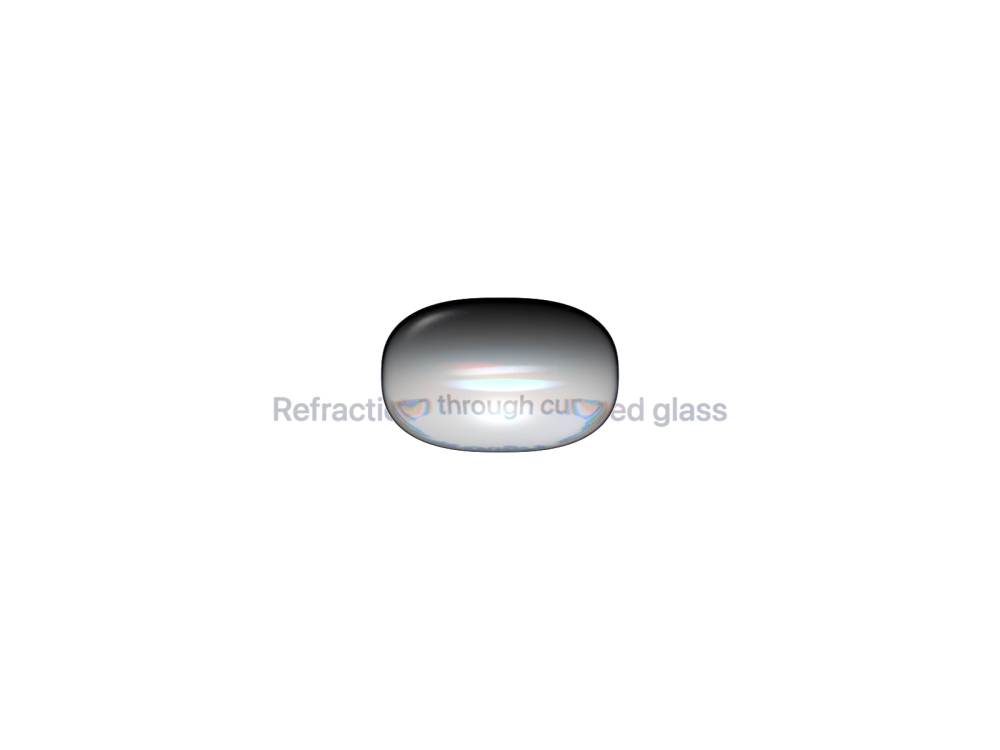
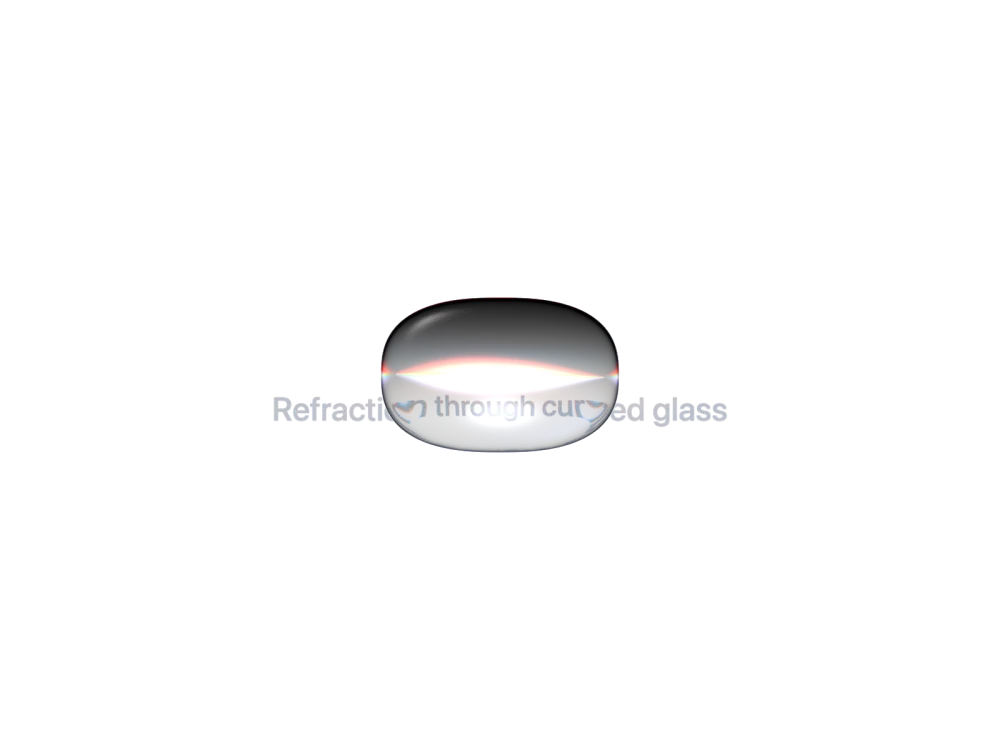
fix: orbs

Changed region(s): [[0.372, 0.46, 0.62, 0.6133]]

diff --git a/src/features/experiments/components/prism-orb-demo.tsx b/src/features/experiments/components/prism-orb-demo.tsx
@@ -99,15 +99,21 @@ const vec2 BODY = vec2(${BODY_X.toFixed(4)}, ${BODY_Y.toFixed(4)});
 // the refracted rays have crossed the axis and the word comes back upside down. That
 // inverted image is real and it is wanted — but at the rim, as the FAR sample below,
 // not smeared across the clear middle where the upright one belongs.
-const float TEXT_DEPTH_MID = 0.55;
-const float TEXT_DEPTH_RIM = 1.70;
+const float TEXT_DEPTH_MID = 0.42;
+const float TEXT_DEPTH_RIM = 1.05;
 // The upside-down copy that wraps the lower rim is the same page followed all the way to
 // the far surface. A real lens shows both, and the inverted one is what reads as glass.
-const float TEXT_FAR_GAIN = 1.20;
-// Wavelengths the page is sampled at. Far fewer than the ribbons take: a fringe on a
-// legible edge reads at a fraction of the sampling a smeared emitter needs before it
-// stops looking like separate stripes.
-const int TEXT_TAPS = 9;
+const float TEXT_FAR_GAIN = 0.20;
+// Wavelengths the page is sampled at, and how far apart they are taken.
+//
+// The dispersion the CORD gets is deliberately far past what real glass does — that is
+// stated at the top of this file. Handing the page the same exaggeration is what made the
+// text look smeared rather than refracted: every letter arrived as nine coloured copies of
+// itself a visible distance apart. Real glass fringes an edge by a hair, and a hair is
+// what reads as clean. The page gets its own, much tighter spread.
+const int TEXT_TAPS = 7;
+const float TEXT_IOR_LO = 1.50;
+const float TEXT_IOR_HI = 1.55;
 // The band runs on its own multiple of the clock. Sharing one rate with the light drift
 // read as a single slow system; split, the ribbon can move at the speed it wants while
 // the reflections stay calm enough not to strobe.
@@ -302,7 +308,7 @@ vec3 centres(float x, float t, float lightY) {
   float drift = sin(x * 0.62 + t * 0.23) * 0.058 + sin(x * 1.40 - t * 0.17) * 0.022;
   // Small enough that the three read as one cord rather than three threads sharing a
   // frame. It only has to exceed the strand width for the crossings to be legible.
-  return b + drift + sin(vec3(ph, ph + TWIST, ph + 2.0 * TWIST)) * 0.125;
+  return b + drift + sin(vec3(ph, ph + TWIST, ph + 2.0 * TWIST)) * 0.072;
 }
 
 // Where each strand is in the twist, -1 at the back and +1 at the front. This is the
@@ -336,29 +342,22 @@ float ribbons(float y, vec3 cy, float w, vec3 facing) {
 // Everything about a ribbon set that depends only on x, so it too leaves the loop.
 // x: half-width after taper, y: falloff along the length.
 vec2 profile(float x) {
-  // The cord is a compact bundle in the middle of the glass, not a band drawn across it.
-  // Both lengths are keyed to a span well inside the body: the thickness taper closes the
-  // strands to a point at about two thirds of the half-width, and the falloff has them
-  // gone before that. That is what keeps colour off the sides, and what makes the bundle
-  // read as a rounded lens rather than a streak with tails running out to the rim.
-  return vec2(0.084 * pow(clamp(1.0 - pow(x / 0.62, 2.0), 0.0, 1.0), 0.55),
-              exp(-pow(abs(x) / 0.34, 2.4)));
+  // A wave: at its fullest through the middle of the glass and drawing thin toward both
+  // sides, rather than a bundle of constant thickness cut off at the ends. x here is the
+  // first component: how wide the winding is allowed to open, which is what sets the
+  // cord's depth at that point. The second is how much light is left along its length.
+  return vec2(1.0 * pow(clamp(1.0 - pow(x / 0.86, 2.0), 0.0, 1.0), 0.45),
+              exp(-pow(abs(x) / 0.52, 2.6)));
 }
 
-// Each strand's own place in the spectrum: a warm one, a cool one, and a pale one. This
-// is the part that stopped being derived. Dispersing a single white emitter gives a full
-// rainbow stacked top to bottom, and stacked is exactly what it looks like — every column
-// showing the whole spectrum in order, which reads as a gradient however finely it is
-// sampled. Distinct ribbons that cross one another cannot come out of that, so the colour
-// now lives on the strands and the glass only bends and fringes it.
-const vec3 STRAND_HUE = vec3(0.82, 0.22, 0.08);
-// How far each strand's hue travels across its own width. The warm one is given a long
-// sweep because it has to carry three of the reference's colours on its own — red along
-// its top edge through orange into yellow. The cool one is kept short deliberately: let
-// it run as far as the warm one does and its upper edge reaches green, and green is the
-// one colour the reference does not have. That green was two strands meeting in the
-// middle of the spectrum, not a strand of its own.
-const vec3 STRAND_SWEEP = vec3(0.20, 0.10, 0.09);
+// How many strings the cord is wound from, and how far apart the winding holds them.
+const int STRINGS = 11;
+const float SPLAY = 0.145;
+// How far past full brightness each strand's core runs. Below 1 there is no core at all,
+// just a coloured shape; this is what buys the white centre and the coloured falloff.
+// Well past 1, because the clipping is the point. Below about 2 the middle of the cord
+// never saturates and there is no white core at all — just a thin rainbow stripe.
+const float STRAND_PEAK = 3.30;
 
 // Levels a spectral colour to a common brightness. The wavelengths are nowhere near equal
 // in luminance — a saturated red carries about a third the light of a cyan at the same
@@ -371,41 +370,57 @@ vec3 leveled(vec3 c) {
   return c / max(dot(c, vec3(0.2126, 0.7152, 0.0722)), 0.10);
 }
 
-// The cord at a point, resolved front to back. Premultiplied colour in rgb, coverage in a.
+// Clips each channel on its own, which is what a sensor or an eye does to light that is
+// too bright for it. This is the whole reason the cord has a white middle: an overexposed
+// green really does go white, because its green channel saturates first and the other two
+// catch up. shoulder() below deliberately does the opposite — it scales the whole colour
+// by its own peak so the hue survives — and that is right for a reflection and wrong for
+// an emitter. Used here, it kept the bright centre a bright GREEN and no amount of gain
+// would turn it white.
+vec3 expose(vec3 c) {
+  return vec3(1.0) - exp(-max(c, 0.0));
+}
+
+// The cord: ONE bundle with the spectrum laid across its width and a single brightness
+// envelope over the whole thing, driven well past full. The middle clips to white — every
+// channel saturating at once — and the wings, which never get there, keep their colour:
+// cool along one edge, warm along the other.
+//
+// Three constructions were tried before this one and all failed on the white middle.
+// Strings each carrying a colour of their own cannot make it: a string that IS red is red
+// in the middle too. Strings each carrying the whole spectrum give every one of them its
+// own white core, so the cord came back as three cords. And summing per-colour strings
+// normalised against the spectrum makes white wherever they overlap — but overlap enough
+// for the centre and the edges go white too, and the colour disappears entirely.
 vec4 cord(float x, float y, float t, float lightY) {
-  vec3 cy = centres(x, t, lightY);
-  vec3 dep = twistDepth(x, t);
+  vec3 wave = centres(x, t, lightY);
+  float b = dot(wave, vec3(1.0 / 3.0));
   vec2 prof = profile(x);
-  // Not one width for the three. The warm strand has to carry red through orange into
-  // yellow across its own face, and a strand as narrow as the other two has no room to
-  // show that — it arrives as a single colour with a fringe.
-  vec3 w = max(prof.x, 1e-4) * vec3(1.35, 0.86, 0.62);
-  vec3 d = (vec3(y) - cy) / w;
+  float ph = twistPhase(x, t);
+  // The winding opens and closes along the length, so the spectrum is wide in some places
+  // and drawn nearly shut in others.
+  float splay = max(SPLAY * prof.x * (0.70 + 0.30 * sin(ph)), 1e-4);
+  float dy = y - b;
 
-  // A hard shoulder, not a gaussian. An edge you can follow along its length is the whole
-  // difference between a ribbon and a smear, and it is what the crossings need to read.
-  vec3 a = exp(-pow(abs(d), vec3(4.5))) * prof.y;
+  // Which string is at this height. The wobble is the winding: the order stays the same
+  // but the whole stack rolls along the cord rather than lying in fixed lanes.
+  float u = clamp(0.5 + (dy / splay) + 0.11 * sin(ph * 1.7 + x * 0.9), 0.0, 1.0);
+  // One envelope over the bundle, past 1 through the middle.
+  // A flatter falloff than a gaussian. Squared, the wings drop away so fast that the
+  // colour out there is always dim, and dim colour reads as a tinted shape rather than as
+  // light — the cord has to be bright all the way across and only white in the middle.
+  float e = exp(-pow(abs(dy) / (splay * 0.82), 1.7)) * prof.y * STRAND_PEAK;
 
-  // Hue sweeping across each strand's own width, so the warm one runs red along its upper
-  // edge into yellow at the lower — the fringe a real ribbon of light has, rather than a
-  // flat fill.
-  vec3 h = STRAND_HUE + d * STRAND_SWEEP;
-  vec3 c0 = leveled(wavelength(clamp(h.x, 0.0, 1.0))) * 0.46;
-  vec3 c1 = leveled(wavelength(clamp(h.y, 0.0, 1.0))) * 0.46;
-  // The third is the pale one the reference shows below the other two, not a colour in
-  // its own right.
-  vec3 c2 = mix(vec3(1.0), leveled(wavelength(clamp(h.z, 0.0, 1.0))) * 0.46, 0.34) * 0.17;
-
-  // Whatever is nearer covers what is behind it. step() on the depths rather than a sort:
-  // with three strands the occlusion is just the product of the ones in front.
-  vec3 occ = vec3(
-    (1.0 - a.y * step(dep.x, dep.y)) * (1.0 - a.z * step(dep.x, dep.z)),
-    (1.0 - a.x * step(dep.y, dep.x)) * (1.0 - a.z * step(dep.y, dep.z)),
-    (1.0 - a.x * step(dep.z, dep.x)) * (1.0 - a.y * step(dep.z, dep.y))
-  );
-  vec3 lit = 0.52 + 0.48 * dep;
-  vec3 k = a * occ * lit;
-  return vec4(c0 * k.x + c1 * k.y + c2 * k.z, dot(a * occ, vec3(1.0)));
+  // How much of the spectrum is still stacked here. Through the middle of the bundle the
+  // wavelengths have not separated yet, so what arrives is all of them at once, and all
+  // of them at once is white. Only out in the wings has one pulled far enough clear to
+  // arrive on its own. Leaving this to the clipping alone gives a YELLOW core rather than
+  // a white one: the middle of the spectrum is green, its green channel saturates first
+  // and the blue never catches up.
+  // Held back so the white stays a core rather than swallowing the colour: with the
+  // exposure raised, everything the mix reaches goes white, not just the middle.
+  vec3 col = mix(leveled(wavelength(u)), vec3(1.25), smoothstep(1.30, 2.80, e));
+  return vec4(col * e, e);
 }
 
 // Light does not stop at the outline. The band is an emitter inside a body that is clear
@@ -506,7 +521,11 @@ void main() {
   // deep image of the page wraps the rim for exactly the reason the deep cord does, and
   // it keeps that second image a band round the rim instead of flooding the middle where
   // the near one belongs.
-  float rim = smoothstep(0.34, 0.90, 1.0 - zu);
+  // A band that dies before the outline, not a ramp that runs into it. Carried all the
+  // way out, the cord's deep image lands on the red end of the spectrum exactly where the
+  // edge is and leaves a red line traced round the whole silhouette — which reads as a
+  // chromatic artifact, not as a second image seen through glass.
+  float rim = smoothstep(0.30, 0.58, 1.0 - zu) * (1.0 - smoothstep(0.74, 0.92, 1.0 - zu));
   float farWeight = FAR_GAIN * rim;
 
   vec4 nearCord = cord(base.x, base.y, t, u_light.y);
@@ -543,14 +562,14 @@ void main() {
   // dark page — turns the body into a flat grey pebble on a light one.
   // Thinner glass takes less out of what passes through it. On a light page this is the
   // whole difference between a sheet and a milky pebble, so it is cut hardest there.
-  float absorb = (0.07 + 0.20 * (1.0 - zu)) * mix(1.0, 0.95, u_ambient);
+  float absorb = (0.045 + 0.13 * (1.0 - zu)) * mix(1.0, 0.80, u_ambient);
   // The spectrum is light being added, so it needs something dark to land on. That is
   // what the crown below provides on a light page — with it there, the gain can stay
   // high in both themes. Lowering it for light mode (which is what a bare white page
   // needs, to stop every hue clipping) leaves the colours flat once the crown exists.
   // Brighter on a light page. Emission on black needs no help; on white it is competing
   // with the page for the same range and starts out looking washed.
-  vec3 spectrum = shoulder(saturated(inside, mix(1.46, 1.48, u_ambient)) * mix(1.75, 2.35, u_ambient));
+  vec3 spectrum = expose(saturated(inside, mix(1.10, 1.14, u_ambient)) * mix(2.40, 2.80, u_ambient));
 
   // What the light blocks, which is much less than what it emits. Two things follow from
   // that. It is taken from the CORD's own coverage rather than from the summed colour, so
@@ -628,7 +647,7 @@ void main() {
   // where the glass has already gone opaque and 1 - alpha has nothing left to let it
   // through; it has to land just inside the rim, in the last of the clear glass.
   float thick = 1.0 - zu;
-  float textRim = smoothstep(0.38, 0.64, thick) * (1.0 - smoothstep(0.78, 0.95, thick));
+  float textRim = smoothstep(0.46, 0.70, thick) * (1.0 - smoothstep(0.80, 0.94, thick));
   float textDepth = mix(TEXT_DEPTH_MID, TEXT_DEPTH_RIM, smoothstep(0.25, 1.0, r));
 
   // The page, taken one wavelength at a time like everything else in here. Sampled at a
@@ -641,7 +660,7 @@ void main() {
   for (int i = 0; i < TEXT_TAPS; i++) {
     float v = (float(i) + 0.5) / float(TEXT_TAPS);
     vec3 w = wavelength(hueAt(v));
-    vec3 dir = refract(-V, N, 1.0 / mix(IOR_VIOLET, IOR_RED, v));
+    vec3 dir = refract(-V, N, 1.0 / mix(TEXT_IOR_HI, TEXT_IOR_LO, v));
     float near = texture(u_text, (P + dir * textDepth).xy * BODY * 0.5 + 0.5).a;
     float deep = texture(u_text, (P + dir * DEPTH).xy * BODY * 0.5 + 0.5).a;
     pageSum += w * (near + deep * textRim * TEXT_FAR_GAIN);
